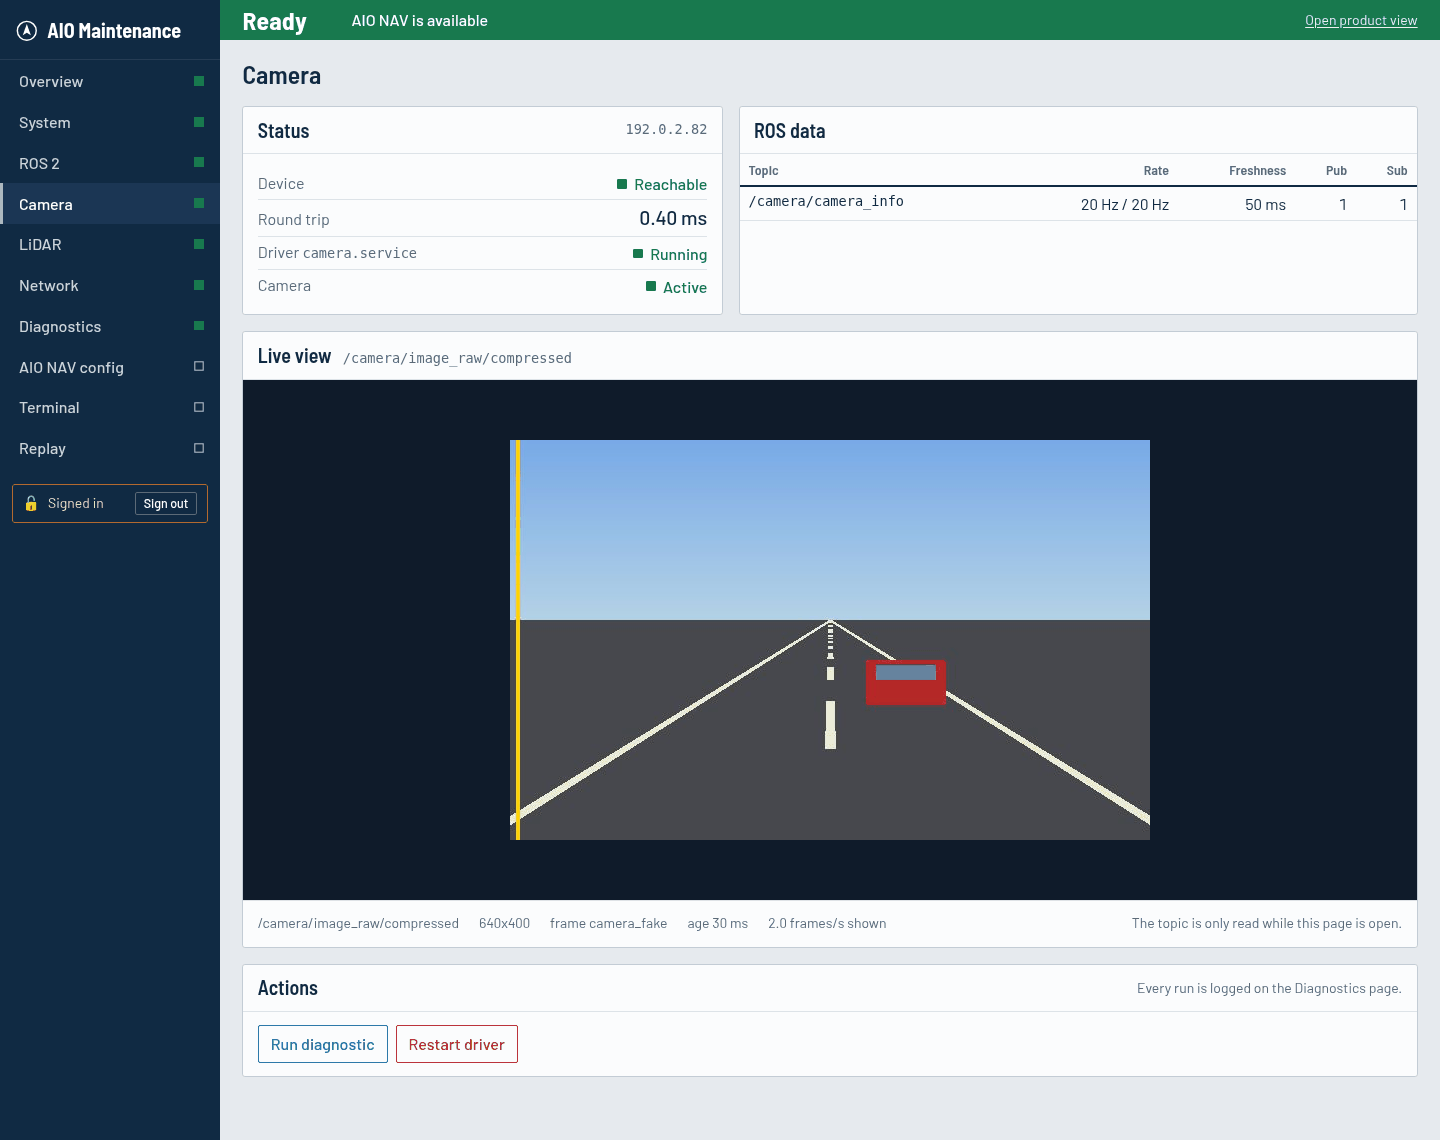
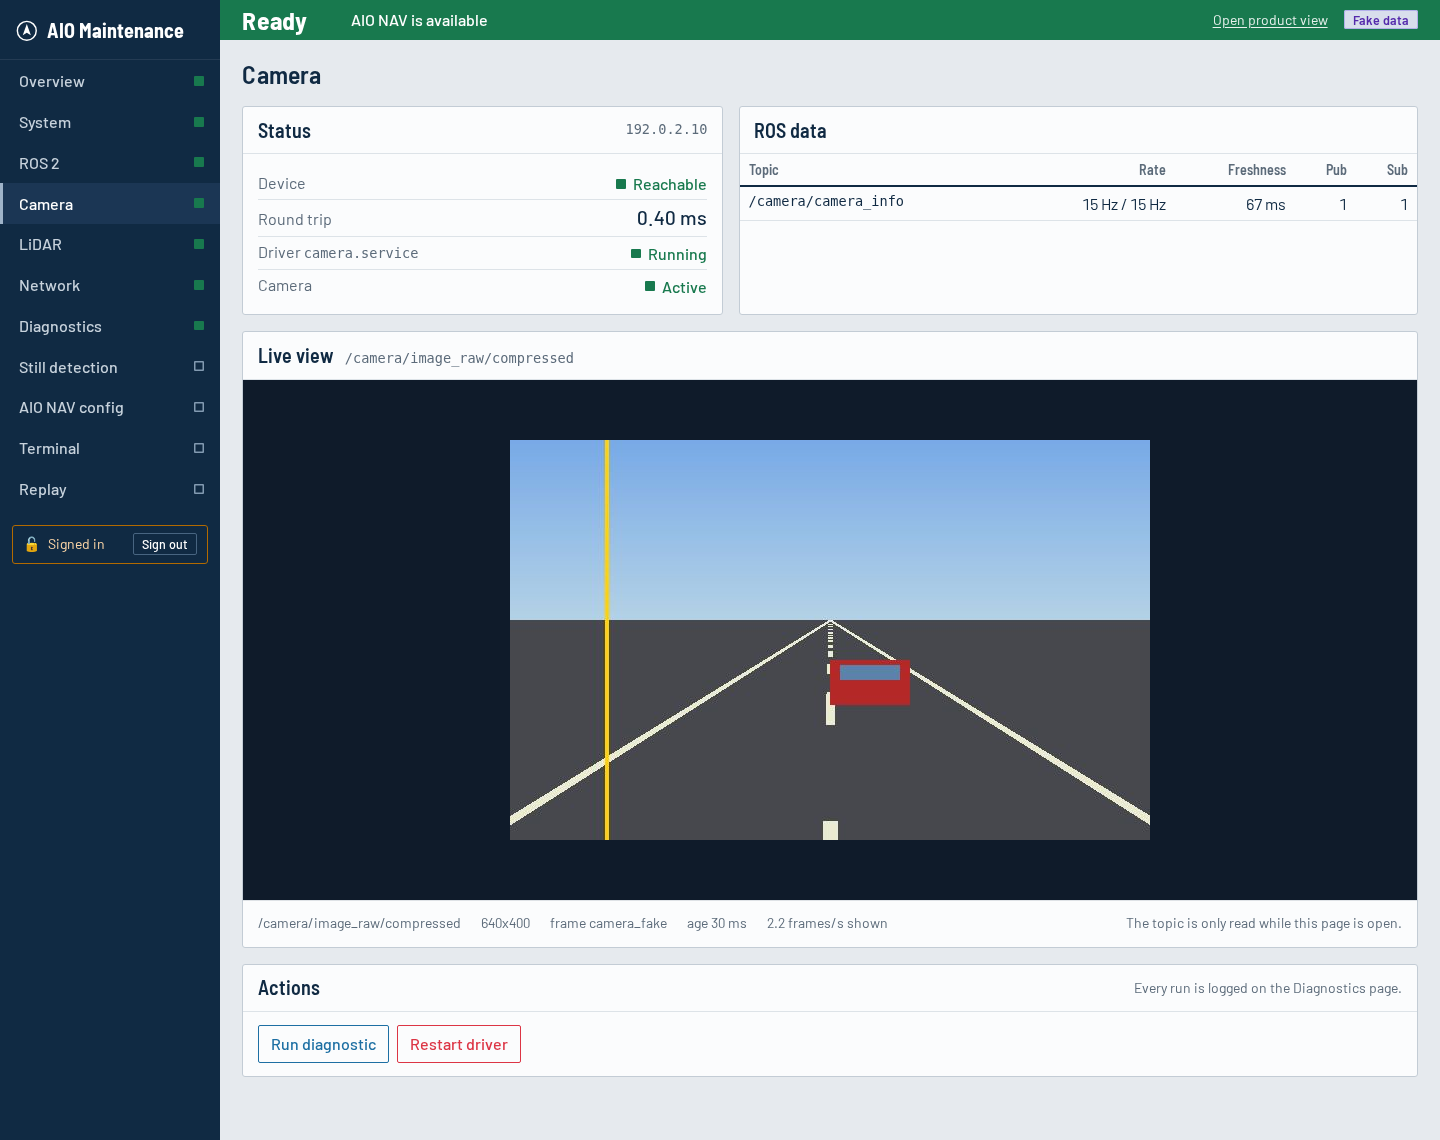
docs: new screenshots of every page (EN / zh-TW), plus Setup and Still detection
Taken from a demo instance (fake mode) in a user namespace whose /home holds only a
/home/jetson and whose host name is "device". Nothing real is shown: the vehicle address
and every interface use 192.0.2.x (the hotspot 10.42.0.1), the track and the initial
position are at a place unrelated to the lab, the lever arms are example values, and the
System panel shows an Orin NX (8 cores, 15.3 GB) instead of the computer that took them.
New: Setup (lever arms), Maintenance > Still detection, the hotspot on Network; the Stopped
view now shows the operator hold (Resume) and the fault the restart after Ready.

diff --git a/docs/OPERATION.zh-TW.md b/docs/OPERATION.zh-TW.md
@@ -161,6 +161,9 @@ GNSS、相機、光達與網路的問題也會以**提示**（下方的琥珀色
 
 **安裝**頁面記錄 GNSS 天線與後軸中心（AIO NAV 的車輛參考點）的位置，從 **AIO 單元內的 IMU** 量起。每次移動 AIO 單元或天線後都要重新量測：數值錯誤會使位置與航向變差。
 
+![安裝頁面](images/user/zh/setup.png)
+*安裝：兩組槓桿臂，以及用來檢查數值的比例圖。*
+
 | 欄位 | 意義 |
 |------|------|
 | **前**／**右**／**下** | 從 IMU 沿車身方向的公尺數：向前、向右、向下為正。負值表示向後、向左、向上。每個值最多 20 公尺，精確到公分或更好。 |
@@ -189,8 +192,8 @@ GNSS、相機、光達與網路的問題也會以**提示**（下方的琥珀色
 
 **啟動**（Start）按鈕在總覽與導航頁面最上方的狀態區。
 
-![Stopped：按 Start 之前](images/user/zh/overview-stopped.png)
-*已停止：沒有任何問題，只是 AIO NAV 還沒執行。按啟動即可。*
+![已由操作人員停止](images/user/zh/overview-stopped.png)
+*已由操作人員停止：沒有任何問題，只是 AIO NAV 沒有執行。按鈕顯示為**恢復**（關閉自動啟動時顯示為**啟動**）。*
 
 
 1. 按**啟動**。狀態先變成**啟動中**（藍綠），AIO NAV 一開始輸出就變成**初始化中**（琥珀）；地圖下方的**導航輸出**從「不會送出資料」變成頻率與位址。
@@ -566,7 +569,7 @@ Live view 只在該頁面開啟時才讀取感測器的 ROS topic。刻意停止
 *維護頁面的登入頁。*
 
 ![維護頁面 Overview](images/maintenance/overview.png)
-*Overview：四個層面與目前的問題。側邊欄的燈號指出哪一頁有問題；工具頁（AIO NAV config、Terminal、Replay）沒有燈號。*
+*Overview：四個層面與目前的問題。側邊欄的燈號指出哪一頁有問題；工具頁（Still detection、AIO NAV config、Terminal、Replay）沒有燈號。*
 
 ![System 頁面](images/maintenance/system.png)
 *System：資源、儲存空間、溫度與服務。*
@@ -578,7 +581,10 @@ Live view 只在該頁面開啟時才讀取感測器的 ROS topic。刻意停止
 *Camera：連線狀態、驅動、topic 與 Live view（這裡是模擬畫面）。*
 
 ![Network 頁面](images/maintenance/network.png)
-*Network：網路介面、感測器連線，以及導航輸出送往何處。*
+*Network：網路介面、感測器連線、導航輸出送往何處，以及 Wi-Fi 熱點（圖中為開啟，且開啟了 UDP 副本）。*
+
+![Still detection 頁面](images/maintenance/still.png)
+*Still detection：三個數值與門檻的比較、在車上量測，以及目前使用的門檻（第 8.1 節）。*
 
 ![Diagnostics 頁面](images/maintenance/diagnostics.png)
 *Diagnostics：目前的問題、操作結果與事件紀錄。*

diff --git a/docs/OPERATION.md b/docs/OPERATION.md
@@ -205,6 +205,9 @@ Maintenance view too. Wi-Fi needs a one-time setup by the installer (configurati
 point) are, measured from the **IMU in the AIO unit**. Measure them again whenever the AIO unit or
 the antenna is moved: wrong values make the position and heading worse.
 
+![Setup page](images/user/setup.png)
+*Setup: the two lever arms and the to-scale drawing that checks them.*
+
 | Field | Meaning |
 |-------|---------|
 | **Forward** / **Right** / **Down** | Metres from the IMU along the vehicle: + ahead, + right, + below. Negative values: behind, left, above. Up to 20 m each, to the centimetre or better. |
@@ -238,8 +241,9 @@ directions, not your vehicle's size).
 
 The **Start** button is in the status area at the top of the Overview and Navigation pages.
 
-![Stopped, before Start](images/user/overview-stopped.png)
-*Stopped: nothing is wrong, AIO NAV simply is not running. Click Start.*
+![Stopped by an operator](images/user/overview-stopped.png)
+*Stopped by an operator: nothing is wrong, AIO NAV simply is not running. The button reads
+**Resume** (it reads **Start** when automatic start is off).*
 
 1. Click **Start**. The state becomes **Starting** (teal), then **Initializing** (amber) as
    soon as AIO NAV sends output; **Navigation output** under the map changes from *Nothing is sent* to the rate and address.
@@ -710,7 +714,7 @@ driver is not reported as a problem.
 
 ![Maintenance overview](images/maintenance/overview.png)
 *Overview: the four layers and the active issues. The sidebar lamps point to the page with a problem;
-the tool pages (AIO NAV config, Terminal, Replay) have no lamp.*
+the tool pages (Still detection, AIO NAV config, Terminal, Replay) have no lamp.*
 
 ![System page](images/maintenance/system.png)
 *System: resources, storage, temperatures and services.*
@@ -722,7 +726,12 @@ the tool pages (AIO NAV config, Terminal, Replay) have no lamp.*
 *Camera: reachability, driver, topic and the Live view (a simulated picture here).*
 
 ![Network page](images/maintenance/network.png)
-*Network: interfaces, sensor reachability and where the navigation output goes.*
+*Network: interfaces, sensor reachability, where the navigation output goes, and the Wi-Fi hotspot
+(here on, with the UDP copies switched on).*
+
+![Still detection page](images/maintenance/still.png)
+*Still detection: the three values against their limits, measuring on the vehicle, and the limits
+in use (section 8.1).*
 
 ![Diagnostics page](images/maintenance/diagnostics.png)
 *Diagnostics: active issues, action results and the event history.*
